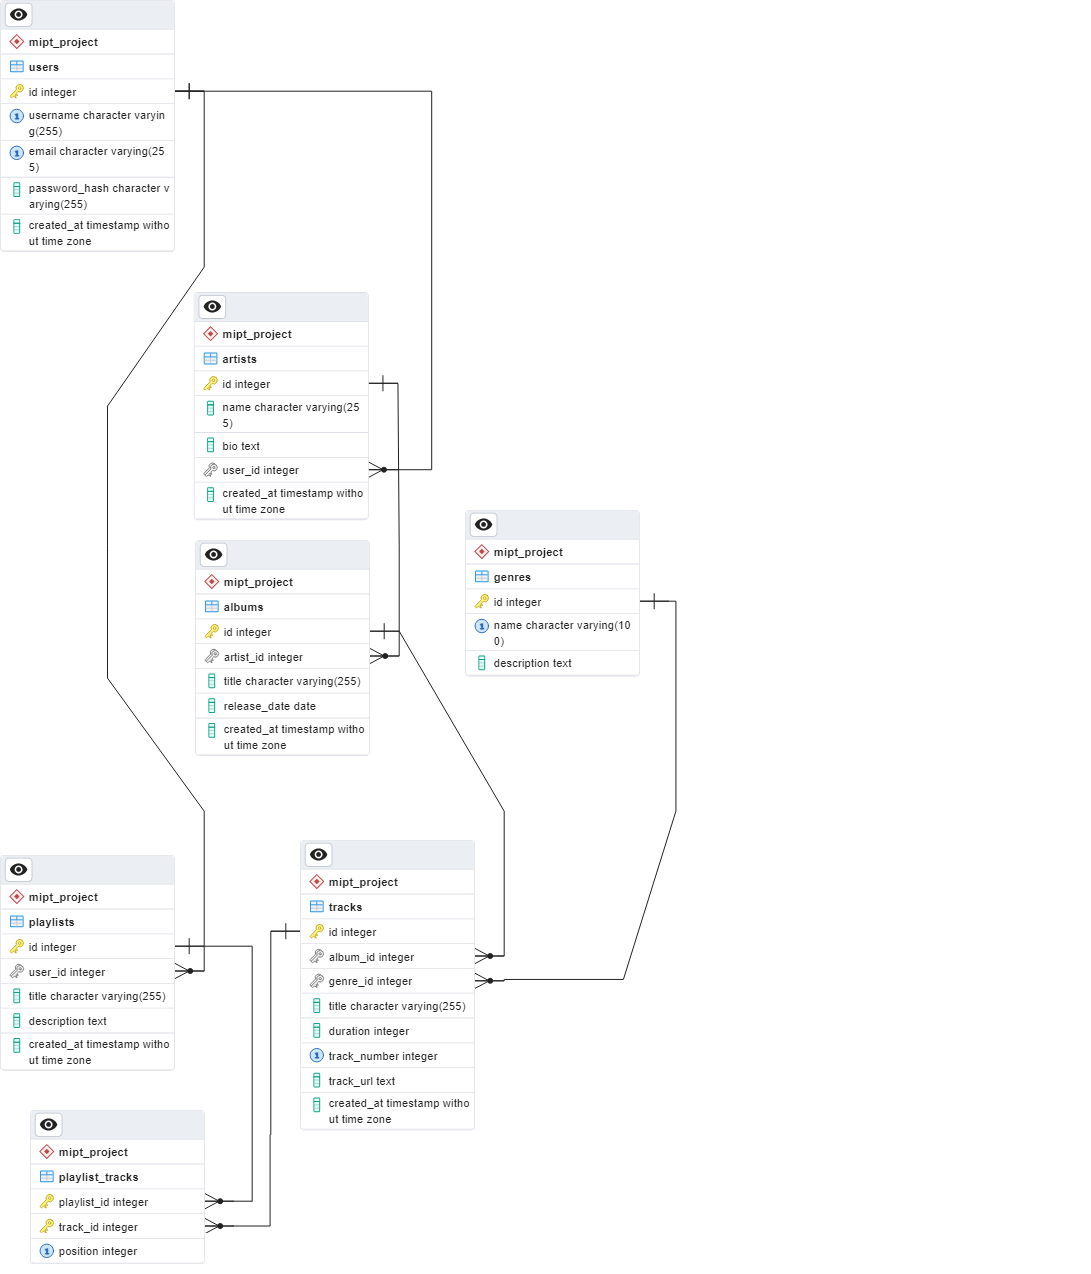
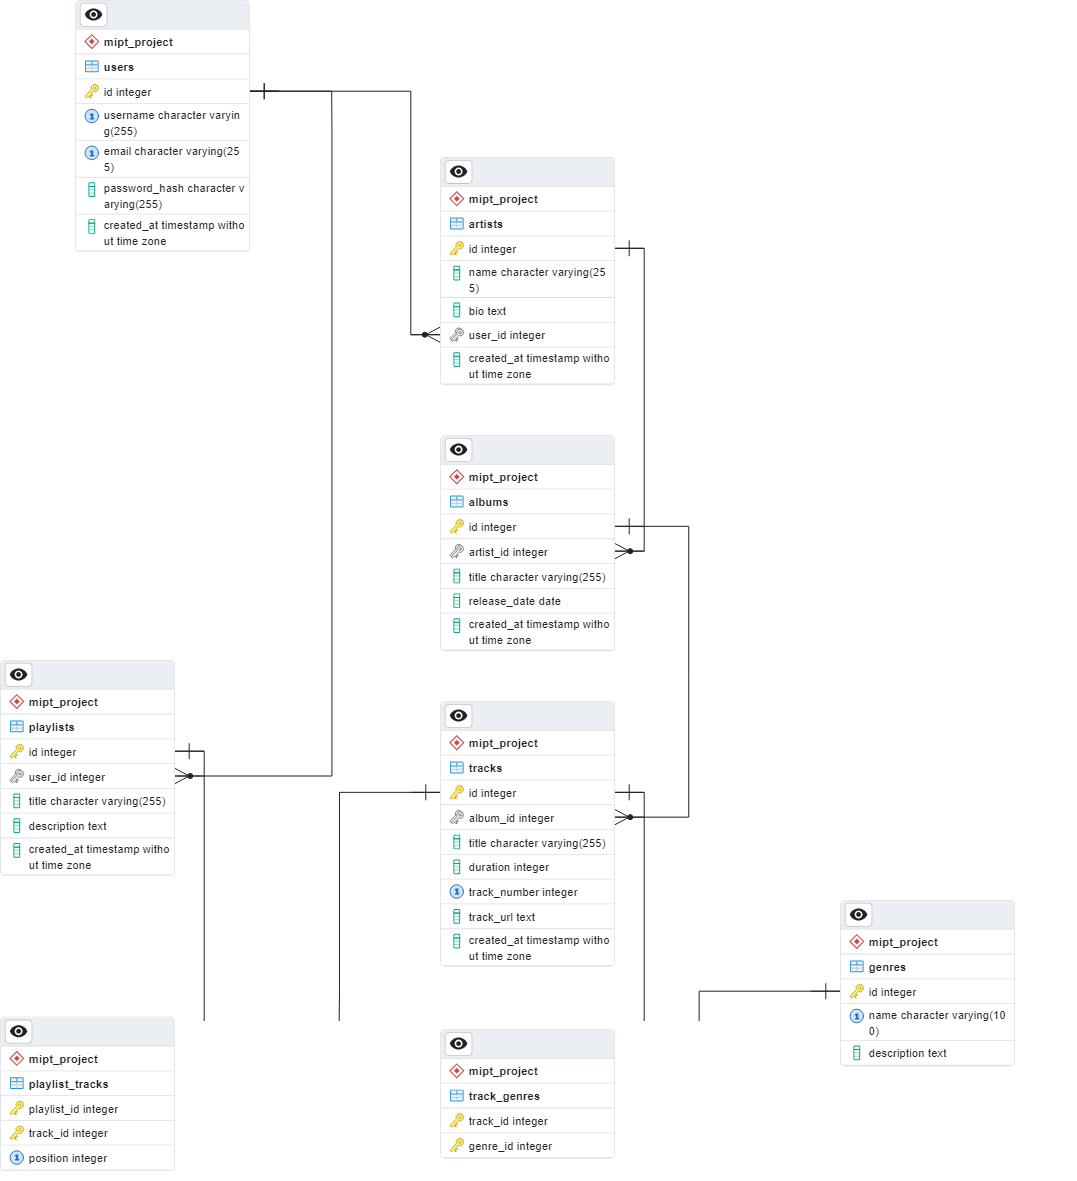
fix big fail (lose M:N in track_genres)

diff --git a/README.md b/README.md
@@ -12,59 +12,63 @@
 ### Описание таблиц и полей
 
 1. **users** - хранит информацию о пользователях системы
-    - `id` (PK) - уникальный идентификатор пользователя
-    - `username` - уникальное имя пользователя
-    - `email` - уникальный email пользователя
-    - `password_hash` - хеш пароля для безопасности
-    - `created_at` - время создания записи
+   - `id` (PK) - уникальный идентификатор пользователя
+   - `username` - уникальное имя пользователя
+   - `email` - уникальный email пользователя
+   - `password_hash` - хеш пароля для безопасности
+   - `created_at` - время создания записи
 
 2. **artists** - содержит информацию об исполнителях
-    - `id` (PK) - уникальный идентификатор исполнителя
-    - `name` - имя исполнителя
-    - `bio` - биография/описание
-    - `user_id` (FK) - связь с пользователем (опционально)
-    - `created_at` - время создания записи
+   - `id` (PK) - уникальный идентификатор исполнителя
+   - `name` - имя исполнителя
+   - `bio` - биография/описание
+   - `user_id` (FK) - связь с пользователем (опционально)
+   - `created_at` - время создания записи
 
 3. **genres** - справочник музыкальных жанров
-    - `id` (PK) - уникальный идентификатор жанра
-    - `name` - название жанра (уникальное)
-    - `description` - описание жанра
+   - `id` (PK) - уникальный идентификатор жанра
+   - `name` - название жанра (уникальное)
+   - `description` - описание жанра
 
 4. **albums** - хранит информацию об альбомах
-    - `id` (PK) - уникальный идентификатор альбома
-    - `artist_id` (FK) - связь с исполнителем
-    - `title` - название альбома
-    - `release_date` - дата выпуска
-    - `created_at` - время создания записи
+   - `id` (PK) - уникальный идентификатор альбома
+   - `artist_id` (FK) - связь с исполнителем
+   - `title` - название альбома
+   - `release_date` - дата выпуска
+   - `created_at` - время создания записи
 
 5. **tracks** - содержит информацию о музыкальных треках
-    - `id` (PK) - уникальный идентификатор трека
-    - `album_id` (FK) - связь с альбомом
-    - `genre_id` (FK) - связь с жанром (опционально)
-    - `title` - название трека
-    - `duration` - длительность в секундах
-    - `track_number` - номер трека в альбоме
-    - `track_url` - ссылка на аудиофайл
-    - `created_at` - время создания записи
+   - `id` (PK) - уникальный идентификатор трека
+   - `album_id` (FK) - связь с альбомом
+   - `title` - название трека
+   - `duration` - длительность в секундах
+   - `track_number` - номер трека в альбоме
+   - `track_url` - ссылка на аудиофайл
+   - `created_at` - время создания записи
 
-6. **playlists** - хранит информацию о плейлистах пользователей
-    - `id` (PK) - уникальный идентификатор плейлиста
-    - `user_id` (FK) - связь с пользователем-создателем
-    - `title` - название плейлиста
-    - `description` - описание плейлиста
-    - `created_at` - время создания записи
+6. **track_genres** - связующая таблица между треками и жанрами (многие-ко-многим)
+   - `track_id` (PK, FK) - идентификатор трека
+   - `genre_id` (PK, FK) - идентификатор жанра
 
-7. **playlist_tracks** - связующая таблица между плейлистами и треками (многие-ко-многим)
-    - `playlist_id` (PK, FK) - идентификатор плейлиста
-    - `track_id` (PK, FK) - идентификатор трека
-    - `position` - позиция трека в плейлисте
+7. **playlists** - хранит информацию о плейлистах пользователей
+   - `id` (PK) - уникальный идентификатор плейлиста
+   - `user_id` (FK) - связь с пользователем-создателем
+   - `title` - название плейлиста
+   - `description` - описание плейлиста
+   - `created_at` - время создания записи
+
+8. **playlist_tracks** - связующая таблица между плейлистами и треками (многие-ко-многим)
+   - `playlist_id` (PK, FK) - идентификатор плейлиста
+   - `track_id` (PK, FK) - идентификатор трека
+   - `position` - позиция трека в плейлисте
 
 #### Связи между таблицами:
+
 - Пользователь может создавать множество плейлистов (1:N)
 - Пользователь может быть исполнителем (1:1, опциональная связь)
 - Исполнитель может иметь множество альбомов (1:N)
 - Альбом содержит множество треков (1:N)
-- Трек принадлежит одному жанру (N:1, опциональная связь)
+- Трек может относиться к множеству жанров, а жанры могут содержать множество треков (M:N через track_genres)
 - Плейлисты могут содержать множество треков, а треки могут быть в множестве плейлистов (M:N через playlist_tracks)
 
 ### Обоснование выбора нормальной формы
@@ -72,35 +76,35 @@
 База данных спроектирована в соответствии с принципами Третьей нормальной формы (3NF), которая обеспечивает:
 
 1. **Первую нормальную форму (1NF)**:
-    - Все атрибуты имеют атомарные значения (нет многозначных атрибутов)
-    - Каждая запись уникально идентифицируется первичным ключом
-    - Нет повторяющихся групп полей
+   - Все атрибуты имеют атомарные значения (нет многозначных атрибутов)
+   - Каждая запись уникально идентифицируется первичным ключом
+   - Нет повторяющихся групп полей
 
 2. **Вторую нормальную форму (2NF)**:
-    - Выполняются требования 1NF
-    - Все неключевые атрибуты полностью зависят от первичного ключа
-    - Отсутствуют частичные зависимости (например, трек имеет свой собственный ID)
+   - Выполняются требования 1NF
+   - Все неключевые атрибуты полностью зависят от первичного ключа
+   - Отсутствуют частичные зависимости (например, трек имеет свой собственный ID)
 
 3. **Третью нормальную форму (3NF)**:
-    - Выполняются требования 2NF
-    - Отсутствуют транзитивные зависимости (неключевые атрибуты зависят только от ключа, а не от других неключевых атрибутов)
-    - Например, информация о жанре не хранится в таблице треков напрямую, а вынесена в отдельную таблицу жанров
+   - Выполняются требования 2NF
+   - Отсутствуют транзитивные зависимости (неключевые атрибуты зависят только от ключа, а не от других неключевых атрибутов)
+   - Например, информация о жанре не хранится в таблице треков напрямую, а вынесена в отдельную таблицу жанров
 
 Выбор 3NF позволяет:
 - Минимизировать избыточность данных (например, информация об исполнителе хранится только в таблице artists)
 - Обеспечить целостность данных (например, при изменении названия жанра оно обновится для всех треков)
 - Оптимизировать структуру для будущих изменений (например, добавление новых атрибутов к жанрам не потребует изменения таблицы треков)
 
-Отношение `playlist_tracks` специально выделено в отдельную таблицу для представления связи многие-ко-многим между плейлистами и треками, что соответствует принципам нормализации.
+Отношения `playlist_tracks` и `track_genres` специально выделены в отдельные таблицы для представления связей многие-ко-многим, что соответствует принципам нормализации.
 
 ## Обоснование выбора типа версионирования (SCD)
 
 В данной модели используется подход SCD Type 1 (Slowly Changing Dimension Type 1):
 
 1. **SCD Type 1 (Перезапись)**:
-    - Во всех основных таблицах используется только поле `created_at`, которое фиксирует время первоначального создания записи
-    - При изменении данных старые значения перезаписываются новыми без сохранения истории изменений
-    - Отсутствуют поля для отслеживания версий или истории изменений
+   - Во всех основных таблицах используется только поле `created_at`, которое фиксирует время первоначального создания записи
+   - При изменении данных старые значения перезаписываются новыми без сохранения истории изменений
+   - Отсутствуют поля для отслеживания версий или истории изменений
 
 Обоснование выбора SCD Type 1:
 - **Простота**: Этот подход обеспечивает наиболее простую и понятную структуру базы данных
@@ -128,20 +132,12 @@
 
 ### [ddl.sql](sql/ddl.sql)
 ```postgresql
--- Создаём схему project
-CREATE SCHEMA IF NOT EXISTS mipt_project;
+-- Пересоздаём схему mipt_project
+DROP SCHEMA IF EXISTS mipt_project CASCADE;
+CREATE SCHEMA mipt_project;
 
 -- Устанавливаем search_path, чтобы использовать схему project
 SET search_path TO mipt_project;
-
--- Удаляем таблицы, если они уже существуют
-DROP TABLE IF EXISTS playlist_tracks;
-DROP TABLE IF EXISTS playlists;
-DROP TABLE IF EXISTS tracks;
-DROP TABLE IF EXISTS albums;
-DROP TABLE IF EXISTS artists;
-DROP TABLE IF EXISTS genres;
-DROP TABLE IF EXISTS users;
 
 -- Таблица пользователей
 CREATE TABLE IF NOT EXISTS users
@@ -197,13 +193,20 @@ CREATE TABLE IF NOT EXISTS tracks
 (
    id           SERIAL PRIMARY KEY,
    album_id     INTEGER      NOT NULL REFERENCES albums (id) ON DELETE CASCADE,
-   genre_id     INTEGER      REFERENCES genres (id) ON DELETE SET NULL,
    title        VARCHAR(255) NOT NULL,
    duration     INTEGER NOT NULL CHECK ( duration > 0 ), -- продолжительность в секундах
    track_number INTEGER NOT NULL,
    track_url    TEXT NOT NULL,    -- ссылка на аудиофайл для подгрузки
    created_at   TIMESTAMP DEFAULT CURRENT_TIMESTAMP,
    CONSTRAINT unique_track_number_per_album UNIQUE (album_id, track_number)
+);
+
+-- Вспомогательная таблица для связи треков и жанров (многие ко многим)
+CREATE TABLE IF NOT EXISTS track_genres
+(
+   track_id    INTEGER NOT NULL REFERENCES tracks (id) ON DELETE CASCADE,
+   genre_id    INTEGER NOT NULL REFERENCES genres (id) ON DELETE CASCADE,
+   PRIMARY KEY (track_id, genre_id)
 );
 
 -- Вспомогательная таблица для связи плейлистов и треков (многие ко многим)
